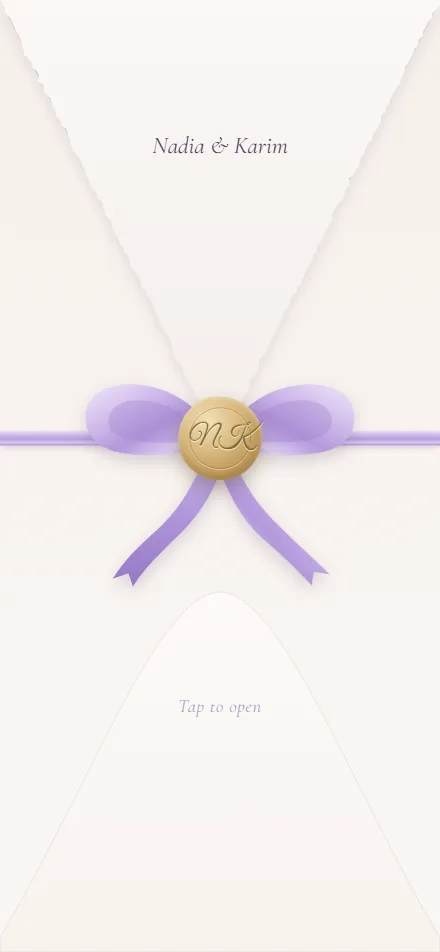
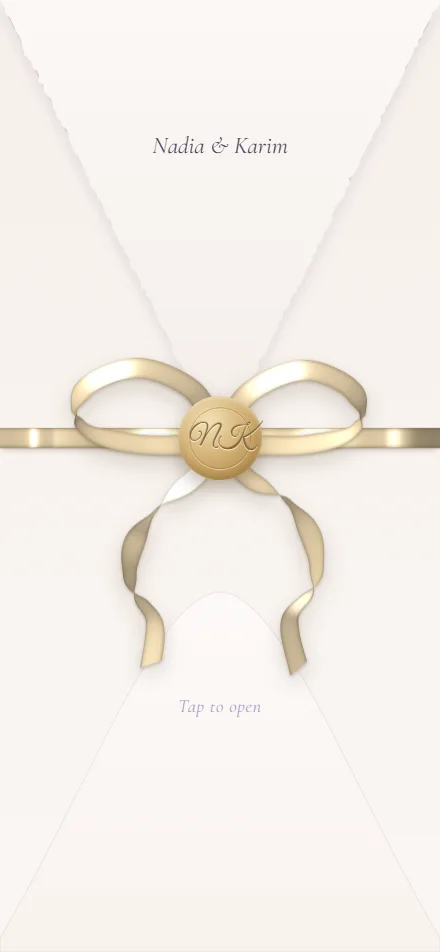
Blush Lilac: realistic champagne-gold satin ribbon
The envelope's ribbon and bow are now rendered as a lit 3D satin strip
instead of painted shapes. Each run follows a 3D curve with a twist along
its length, so loops narrow as they fold and tails turn over. Satin's
thread-aligned sheen runs along the ribbon, with a glossy face, a duller
back, darker selvedges and bias-cut ends. The colour is champagne gold
instead of lilac. The untie animation is re-timed so the loops, tails and
band move visibly before they fade. The landing card images are
regenerated. No other template is changed.

Changed region(s): [[0.2659, 0.3655, 1.0, 0.7311], [0.0, 0.3655, 0.4727, 0.4874]]

diff --git a/frontend/templates/wedding/blush-lilac/index.html b/frontend/templates/wedding/blush-lilac/index.html
@@ -56,7 +56,7 @@
 
   /* ── ENVELOPE / OPENING SCREEN ──
      The whole screen is the back of an envelope seen from above: a deckle-edged flap folded down
-     to the middle, held by a lilac satin ribbon and a champagne wax seal. Tapping it unties the
+     to the middle, held by a champagne-gold satin ribbon and wax seal. Tapping it unties the
      ribbon, lifts the flap, raises the card from the pocket and fades into the invitation.
      The flap and pocket shapes are drawn by drawEnvelope() to the screen's real size, so the
      deckled edge never stretches. */
@@ -114,29 +114,38 @@
   .env-flap .flap-front { filter: drop-shadow(0 7px 7px rgba(90,70,110,.13)); }
   .env-flap .flap-back { transform: rotateX(180deg); }
 
-  /* Satin ribbon across the flap's point, in two halves that slide away when it is untied. */
+  /* Champagne-gold satin ribbon across the flap's point, in two halves that slide away when it
+     is untied. The ribbon and bow are rendered by drawRibbon() as a lit 3D satin strip (see the
+     script); the gradient here is only what shows before that first draw. */
   .env-ribbon {
     position: absolute; left: 0; right: 0; top: var(--tip);
-    height: clamp(15px, 3.4vmin, 24px); transform: translateY(-50%);
+    height: clamp(17px, 4.6vmin, 30px); transform: translateY(-50%);
     pointer-events: none;
   }
   .rib {
-    position: absolute; top: 0; bottom: 0; width: 50.5%;
-    background: linear-gradient(180deg, #ece3f7 0%, #cfbbea 30%, #b89edd 58%, #d8c8ef 82%, #a98bd2 100%);
-    box-shadow: 0 3px 6px -2px rgba(90,70,110,.28);
-    transition: transform .85s cubic-bezier(.6,0,.8,.45) .18s, opacity .5s ease .5s;
+    position: absolute; top: 0; bottom: 0; width: 50.5%; overflow: hidden;
+    background: linear-gradient(180deg, #c9b086 0%, #e6d4b2 30%, #efe2c7 52%, #dcc59c 80%, #c2a77a 100%);
+    box-shadow: 0 1px 1px rgba(80,58,28,.2), 0 4px 7px -3px rgba(80,58,28,.28), 0 10px 16px -10px rgba(80,58,28,.2);
+    transition: transform .85s cubic-bezier(.45,0,.6,1) .15s, opacity .3s ease .72s;
   }
+  .rib canvas { position: absolute; inset: 0; width: 100%; height: 100%; display: block; }
   .rib-l { left: 0; }
   .rib-r { right: 0; }
   .env-bow {
     position: absolute; left: 50%; top: var(--tip);
-    width: clamp(230px, 66vmin, 400px); height: auto; aspect-ratio: 260 / 200;
-    transform: translate(-50%, -35%);
+    width: clamp(240px, 70vmin, 420px); height: auto; aspect-ratio: 300 / 320;
+    transform: translate(-50%, -26.5625%);   /* the knot (85 of the 320 units down) on the band */
     pointer-events: none;
-    filter: drop-shadow(0 6px 8px rgba(90,70,110,.22));
-    transition: transform .8s cubic-bezier(.5,0,.75,0) .12s, opacity .55s ease .3s;
+    filter: drop-shadow(0 2px 1.5px rgba(80,58,28,.24)) drop-shadow(0 9px 10px rgba(80,58,28,.2));
+    transition: opacity .25s ease .95s;
   }
-  .env-bow svg { position: static; width: 100%; height: 100%; }
+  /* Each part of the bow is its own layer, pivoting on the knot, so it can move on its own when the
+     ribbon is untied. */
+  .env-bow canvas {
+    position: absolute; inset: 0; width: 100%; height: 100%; display: block;
+    transform-origin: 50% 26.5625%;
+    transition: transform .8s cubic-bezier(.4,0,.6,1) .12s, opacity .35s ease .6s;
+  }
 
   .env-seal {
     position: absolute; left: 50%; top: var(--tip);
@@ -183,9 +192,16 @@
 
   /* Opening sequence: seal lifts, ribbon slides apart, bow falls away, flap swings up, card rises. */
   #envelope.is-opening .env-seal { transform: translate(-50%, -60%) scale(1.12); opacity: 0; }
+  /* Untying: the loops are drawn out through the knot and away with the band, the tails slip
+     loose and slide off, and the band halves are pulled out to each side. */
   #envelope.is-opening .rib-l { transform: translateX(-104%); opacity: 0; }
   #envelope.is-opening .rib-r { transform: translateX(104%); opacity: 0; }
-  #envelope.is-opening .env-bow { transform: translate(-50%, 10%) rotate(-10deg) scale(.82); opacity: 0; }
+  #envelope.is-opening .env-bow { opacity: 0; }
+  #envelope.is-opening .loop-l { transform: translate(-30%, 1%) rotate(-10deg) scale(.5, .3); opacity: 0; }
+  #envelope.is-opening .loop-r { transform: translate(30%, 1%) rotate(10deg) scale(.5, .3); opacity: 0; }
+  #envelope.is-opening .tail-l { transform: translate(-16%, -4%) rotate(26deg) scale(.85, .55); opacity: 0; }
+  #envelope.is-opening .tail-r { transform: translate(16%, -4%) rotate(-26deg) scale(.85, .55); opacity: 0; }
+  #envelope.is-opening .knot   { transform: scale(.3); opacity: 0; }
   #envelope.is-opening .env-greeting,
   #envelope.is-opening .env-open { opacity: 0; }
   #envelope.is-opening .env-flap { transform: rotateX(178deg); }
@@ -194,14 +210,16 @@
 
   /* A phone on its side: smaller seal and bow so everything stays on one screen. */
   @media (max-height: 460px) {
-    .env-bow { width: 150px; }
+    .env-bow { width: 160px; }
+    .env-ribbon { height: 12px; }           /* the same ribbon as the smaller bow's */
+    .env-open { top: calc(var(--tip) + (100% - var(--tip)) * .8); }   /* below the tails */
     .env-seal { width: 62px; height: 62px; }
     .env-card { padding-top: .9rem; }
     .env-card-names { font-size: 1.8rem; }
   }
   @media (prefers-reduced-motion: reduce) {
     .env-open span { animation: none; }
-    .env-flap, .env-card, .rib, .env-bow, .env-seal { transition-duration: .01s; transition-delay: 0s; }
+    .env-flap, .env-card, .rib, .env-bow, .env-bow canvas, .env-seal { transition-duration: .01s; transition-delay: 0s; }
   }
 
   /* ── LAYOUT ── */
@@ -502,33 +520,17 @@
       <svg class="flap-front" id="envFlapFront"></svg>
       <svg class="flap-back" id="envFlapBack"></svg>
     </div>
-    <div class="env-ribbon" aria-hidden="true"><span class="rib rib-l"></span><span class="rib rib-r"></span></div>
-    <div class="env-bow" aria-hidden="true">
-      <svg viewBox="-130 -70 260 200">
-        <defs>
-          <linearGradient id="satin" x1="0" y1="0" x2="1" y2="1">
-            <stop offset="0" stop-color="#f1e9fa"/><stop offset=".3" stop-color="#d3c0ec"/>
-            <stop offset=".58" stop-color="#b397db"/><stop offset=".8" stop-color="#dccdf1"/><stop offset="1" stop-color="#a586d0"/>
-          </linearGradient>
-          <linearGradient id="satinR" x1="1" y1="0" x2="0" y2="1">
-            <stop offset="0" stop-color="#f1e9fa"/><stop offset=".3" stop-color="#d3c0ec"/>
-            <stop offset=".58" stop-color="#b397db"/><stop offset=".8" stop-color="#dccdf1"/><stop offset="1" stop-color="#a586d0"/>
-          </linearGradient>
-          <linearGradient id="satinDark" x1="0" y1="0" x2="0" y2="1">
-            <stop offset="0" stop-color="#c8b2e8"/><stop offset=".55" stop-color="#ad92d8"/><stop offset="1" stop-color="#9478c4"/>
-          </linearGradient>
-        </defs>
-        <!-- tails, trailing down and out with a twist, cut in a swallowtail -->
-        <path d="M-8 8 C-22 34 -30 58 -56 82 C-74 98 -86 110 -96 126 L-82 121 L-78 133 C-66 114 -50 100 -36 86 C-12 62 -2 40 6 12 Z" fill="url(#satinDark)"/>
-        <path d="M8 8 C18 36 30 56 52 78 C70 96 84 108 98 122 L84 120 L82 132 C68 116 52 102 36 88 C14 66 4 42 -6 12 Z" fill="url(#satinR)"/>
-        <!-- loops, with their inner shadow fold -->
-        <path d="M-6 -4 C-34 -60 -126 -62 -120 -14 C-116 22 -54 20 -6 6 Z" fill="url(#satin)"/>
-        <path d="M-14 -2 C-40 -40 -100 -44 -100 -14 C-99 6 -54 6 -14 2 Z" fill="#9b7cc9" opacity=".3"/>
-        <path d="M6 -4 C34 -60 126 -62 120 -14 C116 22 54 20 6 6 Z" fill="url(#satinR)"/>
-        <path d="M14 -2 C40 -40 100 -44 100 -14 C99 6 54 6 14 2 Z" fill="#9b7cc9" opacity=".3"/>
-        <!-- knot -->
-        <ellipse cx="0" cy="1" rx="19" ry="16" fill="url(#satinDark)"/>
-      </svg>
+    <div class="env-ribbon" aria-hidden="true">
+      <span class="rib rib-l"><canvas id="ribL"></canvas></span><span class="rib rib-r"><canvas id="ribR"></canvas></span>
+    </div>
+    <!-- The bow, one canvas per part (tails under loops, the knot on top) so each can move on its
+         own when the ribbon is untied. Drawn by drawRibbon(). -->
+    <div class="env-bow" aria-hidden="true" id="envBow">
+      <canvas class="tail-l" data-part="tailL"></canvas>
+      <canvas class="tail-r" data-part="tailR"></canvas>
+      <canvas class="loop-l" data-part="loopL"></canvas>
+      <canvas class="loop-r" data-part="loopR"></canvas>
+      <canvas class="knot" data-part="knot"></canvas>
     </div>
     <div class="env-seal" id="envSeal" data-pending><span class="env-mono" id="envMono">&amp;</span></div>
     <!-- Left blank on purpose: the greeting is guest-specific, so showing a placeholder would flash
@@ -1106,6 +1108,182 @@ function drawEnvelope() {
     <path d="${d}" fill="url(#flb)"/>`;
 }
 
+// ── SATIN RIBBON ───────────────────────────────────────
+// The ribbon is rendered as a real strip of satin in 3D rather than painted shapes. Each run of
+// ribbon is a centre line in space (x right, y down, z towards the viewer) plus a twist along its
+// length. At every step the strip's facing is worked out from the curve and the twist: turned
+// edge-on it narrows (the fold at a loop's tip, the turns in the tails), facing up it shows full
+// width. It is lit the way satin really shines: satin's floats run along the ribbon, so its
+// highlight is a streak along the length that slides as the ribbon bends (an anisotropic,
+// thread-aligned sheen), on a soft diffuse base. The face is glossy; the back, seen inside the loops
+// and where a tail turns over, is duller and darker. Coordinates are bow units: x −150…150,
+// y −85…235, the knot at 0,0.
+const SATIN = {
+  base: [218, 197, 160],          // champagne
+  back: [208, 188, 152],          // the reverse: the same champagne, without the gloss
+  shine: [255, 246, 226],         // a warm, golden sheen
+  light: (() => { const v = [-0.42, -0.62, 0.66], l = Math.hypot(...v); return v.map(c => c / l); })()
+};
+const v3 = {
+  sub: (a, b) => [a[0] - b[0], a[1] - b[1], a[2] - b[2]],
+  add: (a, b) => [a[0] + b[0], a[1] + b[1], a[2] + b[2]],
+  mul: (a, s) => [a[0] * s, a[1] * s, a[2] * s],
+  dot: (a, b) => a[0] * b[0] + a[1] * b[1] + a[2] * b[2],
+  cross: (a, b) => [a[1] * b[2] - a[2] * b[1], a[2] * b[0] - a[0] * b[2], a[0] * b[1] - a[1] * b[0]],
+  norm: a => { const l = Math.hypot(a[0], a[1], a[2]) || 1; return [a[0] / l, a[1] / l, a[2] / l]; }
+};
+// A smooth curve through the control points (Catmull-Rom), sampled finely.
+function satinCurve(pts, steps) {
+  const out = [], n = pts.length;
+  for (let i = 0; i < n - 1; i++) {
+    const p0 = pts[Math.max(i - 1, 0)], p1 = pts[i], p2 = pts[i + 1], p3 = pts[Math.min(i + 2, n - 1)];
+    for (let s = 0; s < steps; s++) {
+      const t = s / steps, t2 = t * t, t3 = t2 * t;
+      out.push([0, 1, 2].map(k => .5 * (2 * p1[k] + (-p0[k] + p2[k]) * t + (2 * p0[k] - 5 * p1[k] + 4 * p2[k] - p3[k]) * t2 + (-p0[k] + 3 * p1[k] - 3 * p2[k] + p3[k]) * t3)));
+    }
+  }
+  out.push(pts[n - 1].slice());
+  return out;
+}
+// Twist (degrees) at a fraction of the way along, from [fraction, degrees] keys.
+function satinTwist(keys, f) {
+  for (let i = 1; i < keys.length; i++) if (f <= keys[i][0]) {
+    const [f0, d0] = keys[i - 1], [f1, d1] = keys[i], u = (f - f0) / ((f1 - f0) || 1);
+    const e = u * u * (3 - 2 * u);
+    return (d0 + (d1 - d0) * e) * Math.PI / 180;
+  }
+  return keys[keys.length - 1][1] * Math.PI / 180;
+}
+// Draws one run of ribbon. `map` turns bow units into canvas pixels; w is the ribbon's width.
+// opts: reverse (paint from the far end, so the start lies on top), cut (bias-cut end),
+// shadeNear (darken near a point, where the ribbon passes under the knot).
+function satinRun(ctx, pts, keys, w, map, opts = {}) {
+  const S = satinCurve(pts, 20), n = S.length, L = SATIN.light, H = v3.norm(v3.add(L, [0, 0, 1]));
+  const frames = S.map((p, i) => {
+    const T = v3.norm(v3.sub(S[Math.min(i + 1, n - 1)], S[Math.max(i - 1, 0)]));
+    let B = v3.norm(v3.cross([0, 0, 1], T));
+    let N0 = v3.norm(v3.cross(T, B)); if (N0[2] < 0) N0 = v3.mul(N0, -1);
+    const th = satinTwist(keys, i / (n - 1)), c = Math.cos(th), s = Math.sin(th);
+    const N = v3.add(v3.mul(N0, c), v3.mul(B, s));       // the ribbon's face
+    const E = v3.sub(v3.mul(B, c), v3.mul(N0, s));       // across the ribbon, edge to edge
+    const P = map(p);
+    return { P, T, N, E: [E[0] * map.k, E[1] * map.k] };
+  });
+  const order = [...Array(n - 1).keys()];
+  if (opts.reverse) order.reverse();
+  const half = w / 2;
+  const rgb = (c, f, g) => `rgb(${c.map((v, j) => Math.min(255, Math.round(v * f + SATIN.shine[j] * g))).join(',')})`;
+  for (const i of order) {
+    const a = frames[i], b = frames[i + 1];
+    let Nf = a.N, back = false;
+    if (Nf[2] < 0) { Nf = v3.mul(Nf, -1); back = true; }
+    const diff = Math.max(v3.dot(Nf, L), 0);
+    const tH = v3.dot(a.T, H), aniso = Math.sqrt(Math.max(0, 1 - tH * tH));
+    let spec = Math.pow(aniso, 60) * .58 + Math.pow(aniso, 8) * .16;
+    if (back) spec *= .3;
+    let shade = (back ? .74 : .66) + .42 * diff;
+    if (opts.shadeNear) {
+      const d = Math.hypot(S[i][0] - opts.shadeNear[0], S[i][1] - opts.shadeNear[1]);
+      shade *= .76 + .24 * Math.min(1, d / 34);
+    }
+    const base = back ? SATIN.back : SATIN.base;
+    // overlap each step a little along the ribbon so no hairline seams show between them
+    const sl = Math.hypot(b.P[0] - a.P[0], b.P[1] - a.P[1]) || 1, ov = Math.max(.9, sl * .12) / sl;
+    const dx = (b.P[0] - a.P[0]) * ov, dy = (b.P[1] - a.P[1]) * ov;
+    const e0 = [a.P[0] - a.E[0] * half, a.P[1] - a.E[1] * half], e1 = [a.P[0] + a.E[0] * half, a.P[1] + a.E[1] * half];
+    // Across the width, one smooth gradient: the woven edges a shade darker, the sheen fullest
+    // across the middle.
+    const gr = (Math.hypot(e1[0] - e0[0], e1[1] - e0[1]) > .5) ? ctx.createLinearGradient(e0[0], e0[1], e1[0], e1[1]) : null;
+    if (gr) {
+      gr.addColorStop(0, rgb(base, shade * .84, spec * .55));
+      gr.addColorStop(.18, rgb(base, shade * .97, spec * .9));
+      gr.addColorStop(.5, rgb(base, shade, spec));
+      gr.addColorStop(.82, rgb(base, shade * .98, spec * .9));
+      gr.addColorStop(1, rgb(base, shade * .87, spec * .55));
+      ctx.fillStyle = gr;
+    } else ctx.fillStyle = rgb(base, shade * .9, spec * .7);   // edge-on: just the edge
+    ctx.beginPath();
+    ctx.moveTo(a.P[0] - a.E[0] * half - dx, a.P[1] - a.E[1] * half - dy);
+    ctx.lineTo(b.P[0] - b.E[0] * half + dx, b.P[1] - b.E[1] * half + dy);
+    ctx.lineTo(b.P[0] + b.E[0] * half + dx, b.P[1] + b.E[1] * half + dy);
+    ctx.lineTo(a.P[0] + a.E[0] * half - dx, a.P[1] + a.E[1] * half - dy);
+    ctx.closePath(); ctx.fill();
+  }
+  // the woven selvedges: a fine darker line along each edge
+  ctx.lineWidth = Math.max(.6, map.k * .5);
+  ctx.strokeStyle = 'rgba(122,97,62,.38)';
+  for (const sgn of [-1, 1]) {
+    ctx.beginPath();
+    frames.forEach((f, i) => { const x = f.P[0] + f.E[0] * half * sgn, y = f.P[1] + f.E[1] * half * sgn; i ? ctx.lineTo(x, y) : ctx.moveTo(x, y); });
+    ctx.stroke();
+  }
+  // a bias-cut end: trim a triangle off the last stretch
+  if (opts.cut) {
+    const f = frames[n - 1], p = frames[n - 4], tx = f.P[0] - p.P[0], ty = f.P[1] - p.P[1], tl = Math.hypot(tx, ty) || 1;
+    const ux = tx / tl, uy = ty / tl, len = w * map.k * .55;
+    ctx.save(); ctx.globalCompositeOperation = 'destination-out';
+    ctx.beginPath();
+    ctx.moveTo(f.P[0] + f.E[0] * half * 1.4 + ux * 2, f.P[1] + f.E[1] * half * 1.4 + uy * 2);
+    ctx.lineTo(f.P[0] - f.E[0] * half * 1.4 - ux * len, f.P[1] - f.E[1] * half * 1.4 - uy * len);
+    ctx.lineTo(f.P[0] - f.E[0] * half * 1.4 + ux * 20, f.P[1] - f.E[1] * half * 1.4 + uy * 20);
+    ctx.closePath(); ctx.fill(); ctx.restore();
+  }
+}
+// The bow's parts and the band. Each part: control points [x, y, z], twist keys, and options.
+const BOW_PARTS = {
+  // Loops rise towards the viewer over the crown; the face tilts towards the light going out,
+  // turns edge-on at the tip, and comes back showing its duller reverse.
+  loopL: { pts: [[-3, -3, 3], [-26, -46, 14], [-76, -68, 22], [-122, -56, 18], [-142, -30, 10], [-128, -6, 6], [-82, 6, 4], [-34, 7, 3], [-4, 4, 2]],
+           keys: [[0, 18], [.2, 26], [.42, 34], [.52, 78], [.58, 118], [.72, 150], [1, 162]], opts: { reverse: true, shadeNear: [0, 0] } },
+  loopR: { pts: [[3, -3, 3], [28, -44, 14], [78, -66, 22], [121, -53, 17], [139, -27, 10], [126, -4, 6], [80, 7, 4], [33, 7, 3], [4, 4, 2]],
+           keys: [[0, -16], [.2, -24], [.42, -30], [.52, -76], [.58, -116], [.72, -148], [1, -160]], opts: { reverse: true, shadeNear: [0, 0] } },
+  // Tails fall away and turn over twice on the way down, ending in a bias cut.
+  tailL: { pts: [[-4, 6, 3], [-22, 36, 4], [-58, 66, 3], [-84, 104, 2], [-86, 146, 2], [-64, 180, 1], [-68, 226, 0]],
+           keys: [[0, 22], [.22, 36], [.36, 96], [.5, 158], [.62, 126], [.76, 58], [.9, 30], [1, 26]], opts: { cut: true, shadeNear: [0, 0] } },
+  tailR: { pts: [[4, 6, 3], [26, 38, 4], [66, 62, 3], [90, 100, 2], [92, 144, 2], [68, 178, 1], [78, 230, 0]],
+           keys: [[0, -20], [.2, -40], [.34, -104], [.48, -160], [.6, -128], [.74, -62], [.88, -34], [1, -28]], opts: { cut: true, shadeNear: [0, 0] } },
+  // The knot: a short wrap of ribbon, gathered round the middle (mostly under the seal).
+  knot:  { pts: [[-15, 1, 2], [-8, 0, 7], [0, -.5, 9], [8, 0, 7], [15, 1, 2]], keys: [[0, 0], [1, 0]], opts: {}, w: 26 }
+};
+function drawRibbon() {
+  const dpr = Math.min(window.devicePixelRatio || 1, 2);   // 2x is sharp at this size and keeps memory low on phones
+  const bow = document.getElementById('envBow');
+  if (bow && bow.clientWidth) {
+    const cssW = bow.clientWidth, cssH = bow.clientHeight, k = cssW / 300 * dpr;
+    const map = p => [(p[0] + 150) * k, (p[1] + 85) * k];
+    map.k = k;
+    bow.querySelectorAll('canvas').forEach(cv => {
+      const part = BOW_PARTS[cv.dataset.part];
+      cv.width = Math.round(cssW * dpr); cv.height = Math.round(cssH * dpr);
+      const ctx = cv.getContext('2d');
+      ctx.clearRect(0, 0, cv.width, cv.height);
+      satinRun(ctx, part.pts, part.keys, (part.w || 21) * k, map, part.opts);
+    });
+  }
+  // The band: the same satin, nearly flat, with the faint ripple a real ribbon has, rolling away
+  // into shade where it wraps round the edges of the envelope.
+  [['ribL', -1], ['ribR', 1]].forEach(([id, dir]) => {
+    const cv = document.getElementById(id);
+    if (!cv || !cv.clientWidth) return;
+    const cssW = cv.clientWidth, cssH = cv.clientHeight;
+    cv.width = Math.round(cssW * dpr); cv.height = Math.round(cssH * dpr);
+    const ctx = cv.getContext('2d'), W = cv.width, Hh = cv.height;
+    ctx.clearRect(0, 0, W, Hh);
+    const pts = [];
+    const steps = Math.max(8, Math.round(cssW / 40));
+    for (let i = 0; i <= steps; i++) {
+      const f = i / steps;                                   // 0 at the knot … 1 at the screen's edge
+      const x = dir < 0 ? (1 - f) * W : f * W;
+      const wrap = Math.max(0, (f - .9) / .1);
+      const z = (Math.sin(f * 9.4 + (dir < 0 ? .7 : 2.1)) * .9 + Math.sin(f * 23 + 1.3) * .35) * Hh * .22 - wrap * wrap * Hh * 1.6;
+      pts.push([x, Hh / 2, z]);
+    }
+    const id1 = p => [p[0], p[1]]; id1.k = 1;
+    // the band runs from the knot outwards, so its twist keys run the same way on both sides
+    satinRun(ctx, pts, [[0, dir * 4], [.5, dir * -3], [1, dir * 2]], Hh * .94, id1, {});
+  });
+}
+
 // ── ENVELOPE OPEN ──────────────────────────────────────
 // One tap runs the whole sequence once: the ribbon is untied and the seal lifted, the flap swings
 // up, the card rises, then the scene fades into the invitation. Further taps are ignored.
@@ -1128,7 +1306,8 @@ function openEnvelope() {
 
 // ── EVENTS ─────────────────────────────────────────────
 drawEnvelope();
-window.addEventListener('resize', () => { if (!envelopeOpening) drawEnvelope(); });
+drawRibbon();
+window.addEventListener('resize', () => { if (!envelopeOpening) { drawEnvelope(); drawRibbon(); } });
 document.getElementById('envelope').addEventListener('click', openEnvelope);
 document.getElementById('envelope').addEventListener('keydown', e => {
   if (e.key === 'Enter' || e.key === ' ') { e.preventDefault(); openEnvelope(); }
